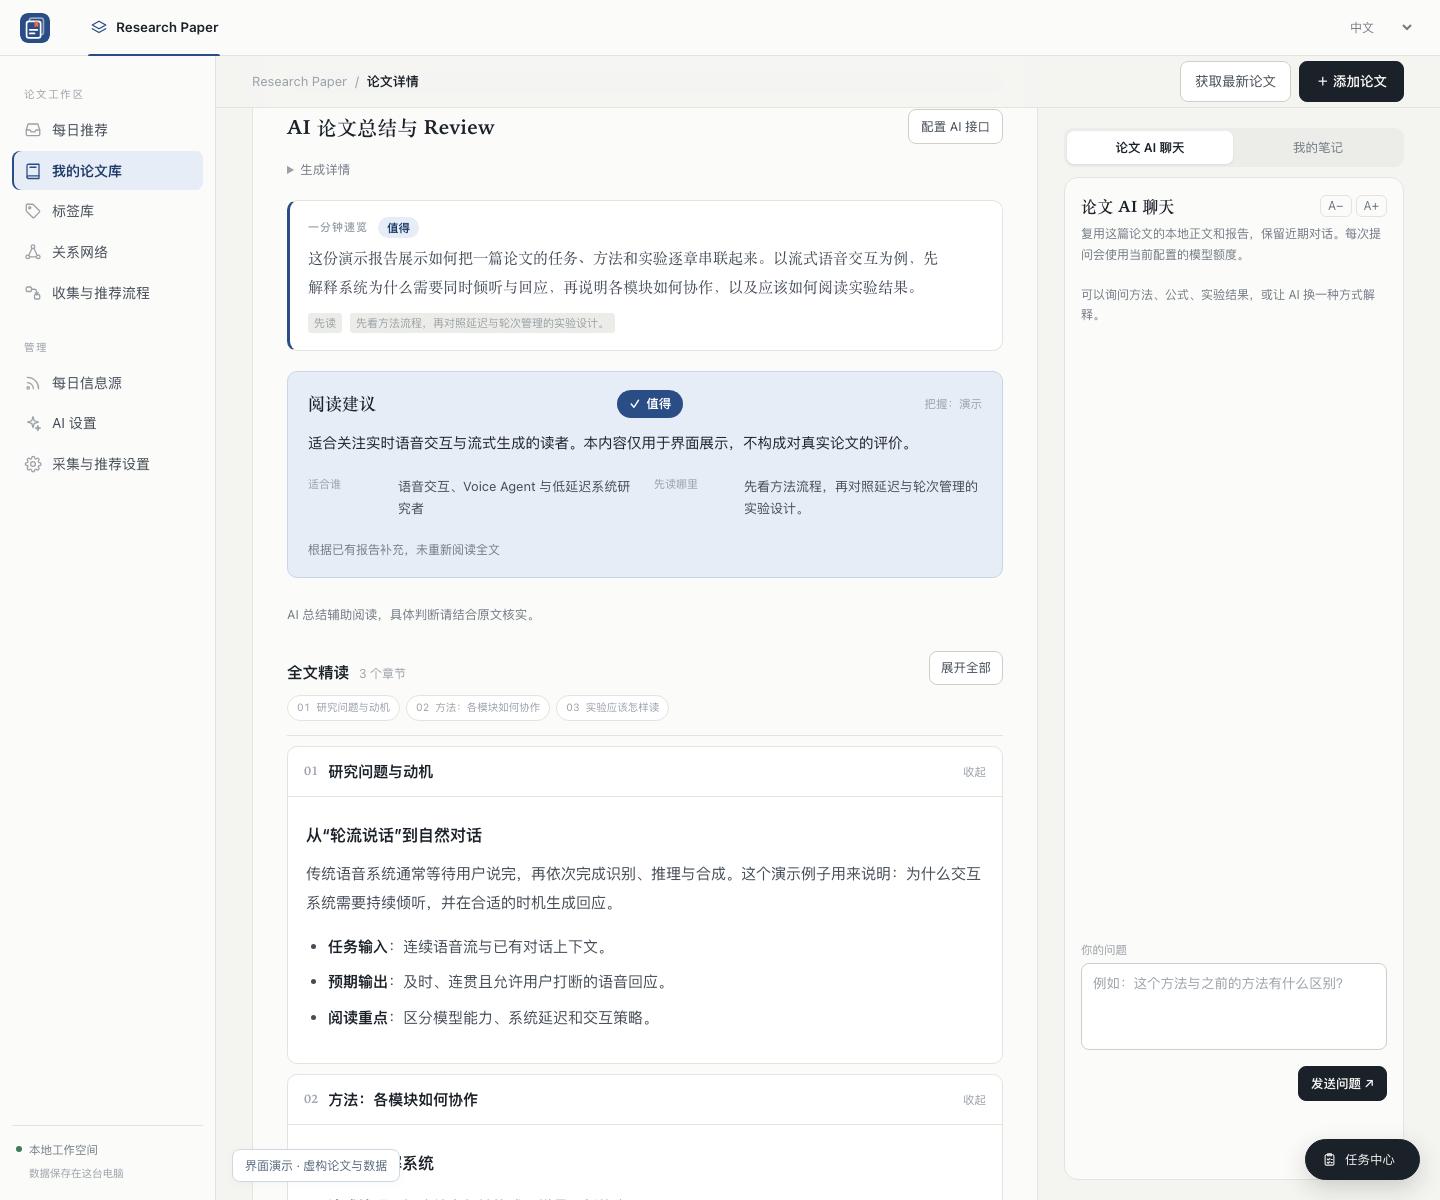
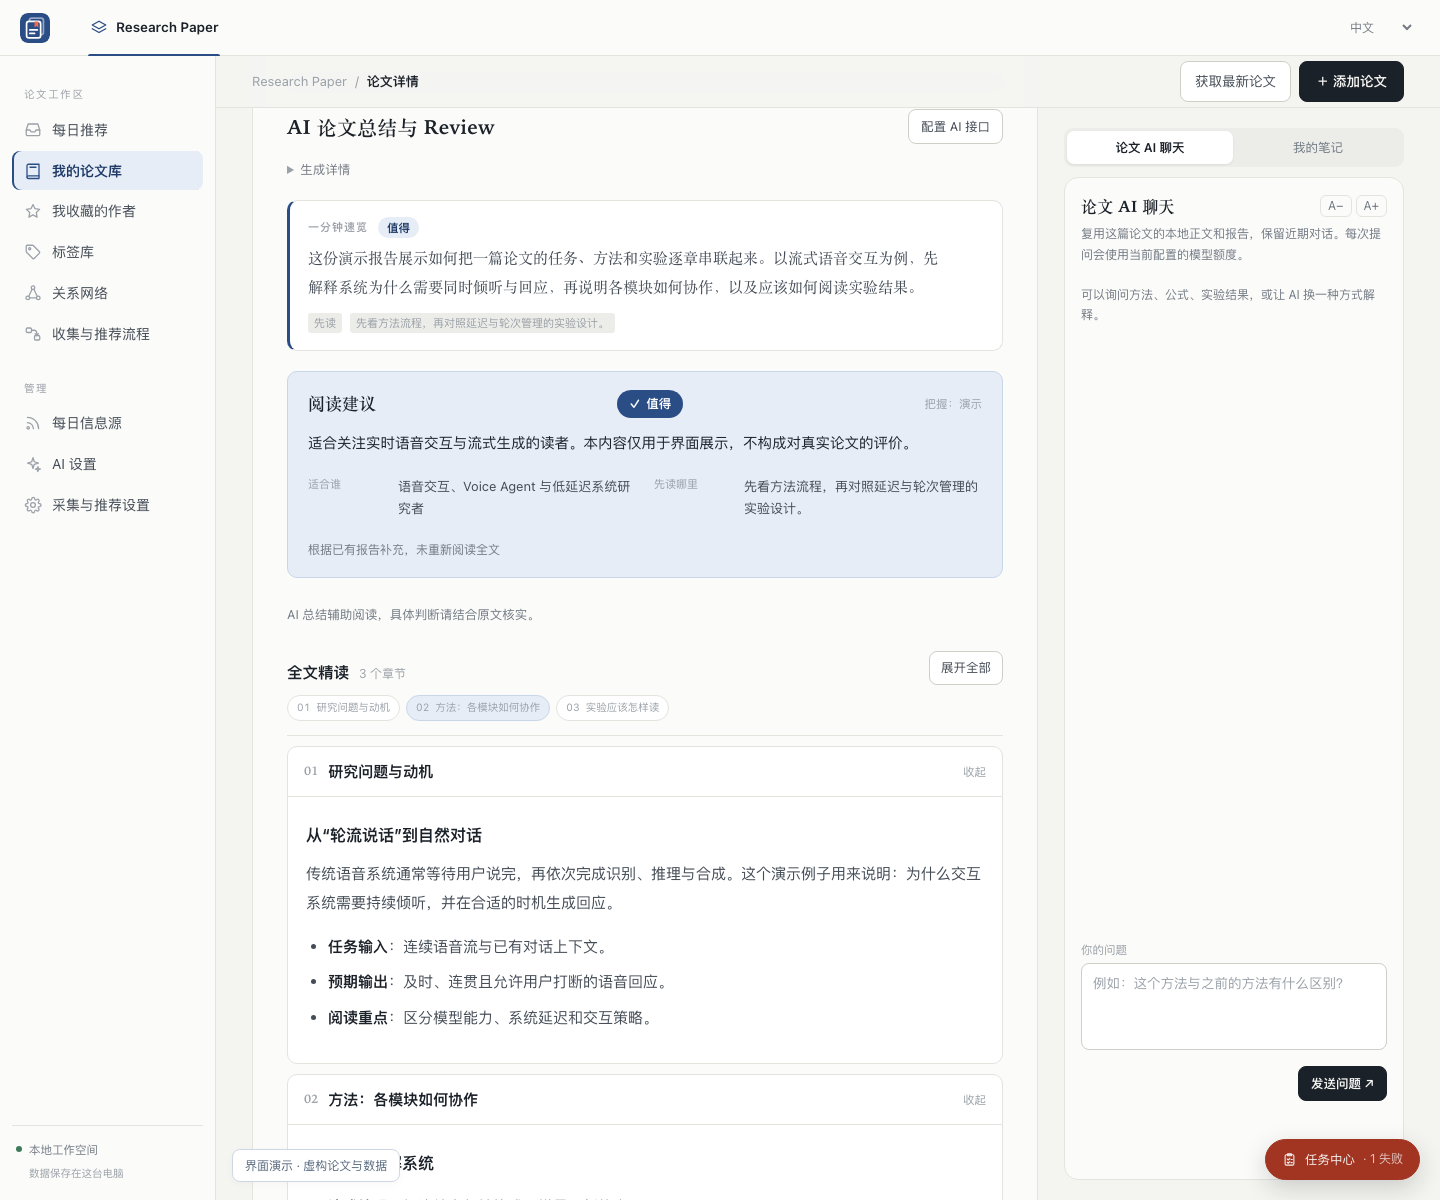
Show collected authors and current pages in README
Add dedicated tours for collected authors, author profiles and task diagnostics.
Refresh all six existing screenshots and add three new screenshots from the running standalone app with fictional demo data.
Explain collection links, author-follow setup and weekly check limitations.

Validation: checked nine screenshot links, inspected captures and confirmed no browser errors. Documentation and images only.

Changed region(s): [[0.0312, 0.1542, 0.0938, 0.4317], [0.875, 0.925, 1.0, 0.9867]]

diff --git a/CHANGELOG.md b/CHANGELOG.md
@@ -1,5 +1,11 @@
 # 更新记录
 
+## 2026-11-27 · 功能展示文档
+
+- 在 README 的系统介绍中新增“我收藏的作者”、作者档案和任务详情的独立图文展示。
+- 更新每日推荐、论文库、论文详情、AI 精读和关系网络截图，共展示 9 张当前版本页面截图。
+- 补充收藏夹链接、作者关注的使用方式与运行条件；全部截图使用隔离的虚构演示数据。
+
 ## 2026-11-27
 
 ### 新增
